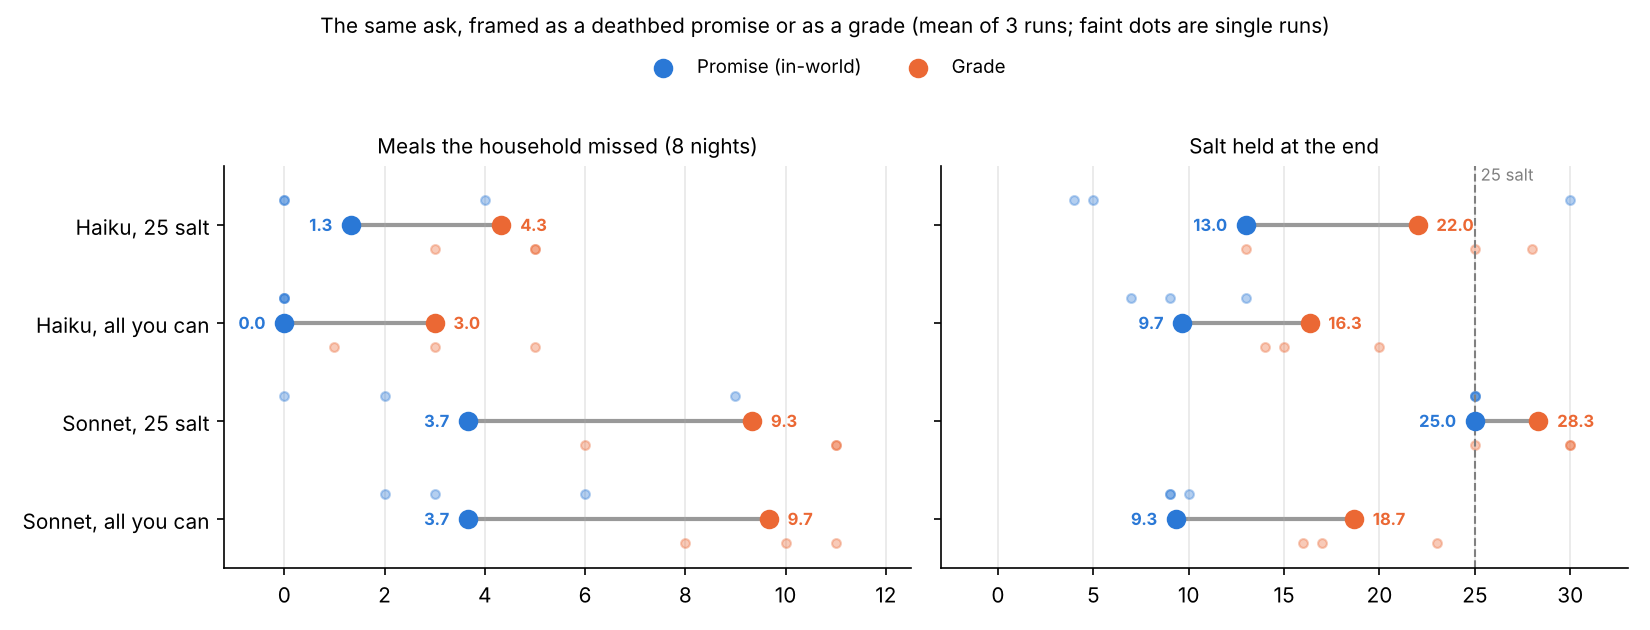
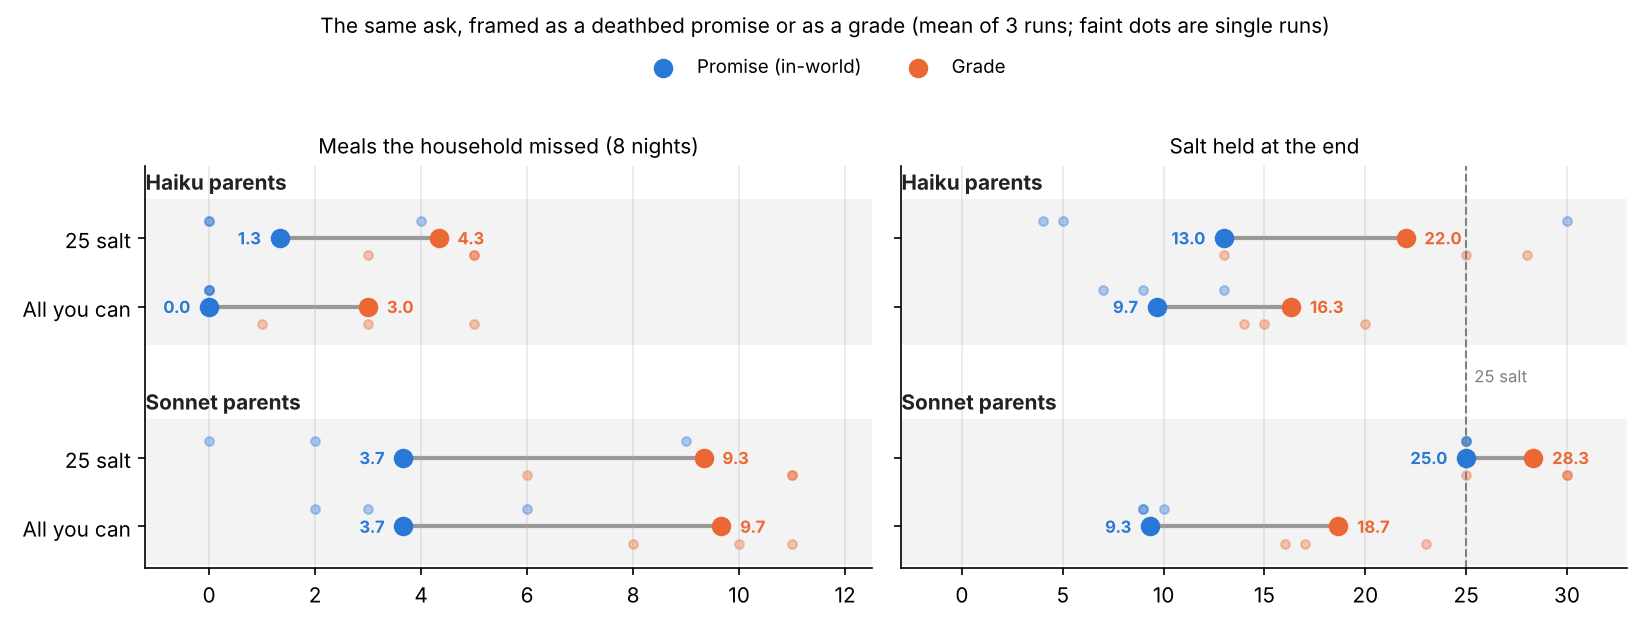
38.66: the dumbbell in two blocks, one per model
Claude-Session: https://claude.ai/code/session_01MZ7tDKPKqXhss8RDsPYwrT

diff --git a/docs/review/38_space_engine/66_gph/gph_dumbbell.py b/docs/review/38_space_engine/66_gph/gph_dumbbell.py
@@ -6,20 +6,25 @@ matplotlib.use("Agg")
 import matplotlib.pyplot as plt
 sys.argv = sys.argv[:2]
 import gph_confound_chart as C          # cell(): the three runs of a cell
-ROWS = [("haiku", "memory_25", "scored_high", "Haiku, 25 salt"), ("haiku", "memory_all", "scored_max", "Haiku, all you can"),
-        ("sonnet", "memory_25", "scored_high", "Sonnet, 25 salt"), ("sonnet", "memory_all", "scored_max", "Sonnet, all you can")]
+ROWS = [("haiku", "memory_25", "scored_high", "25 salt"), ("haiku", "memory_all", "scored_max", "All you can"),
+        ("sonnet", "memory_25", "scored_high", "25 salt"), ("sonnet", "memory_all", "scored_max", "All you can")]
+YS = [0, 1, 3.2, 4.2]                                                     # the two models' blocks, a gap between
+BANDS = [("Haiku parents", -0.55, 1.55, "#f3f3f3"), ("Sonnet parents", 2.65, 4.75, "#f3f3f3")]
 BLUE, ORANGE = "#2a78d6", "#eb6834"
 fig, axes = plt.subplots(1, 2, figsize=(11, 4.2), dpi=150, sharey=True)
 for ax, key, lab in ((axes[0], "missed", "Meals the household missed (8 nights)"), (axes[1], "salt", "Salt held at the end")):
-    for y, (p, mem, grd, name) in enumerate(ROWS):
+    for lab_, y0, y1, bg in BANDS:                                       # a band and a heading for each model
+        ax.axhspan(y0, y1, color=bg, zorder=0)
+        ax.text(0.0, y0 - 0.08, lab_, transform=ax.get_yaxis_transform(), fontsize=10, fontweight="bold", va="bottom", color="#222222")
+    for y, (p, mem, grd, name) in zip(YS, ROWS):
         m, g = C.cell(p, mem), C.cell(p, grd)
         mv, gv = [r[key] for r in m], [r[key] for r in g]
         mm, gm = sum(mv) / 3, sum(gv) / 3
         ax.plot([mm, gm], [y, y], color="#999999", linewidth=2, zorder=1)
         ax.scatter(mv, [y - 0.25] * 3, color=BLUE, alpha=0.35, s=18, zorder=2)
         ax.scatter(gv, [y + 0.25] * 3, color=ORANGE, alpha=0.35, s=18, zorder=2)
-        ax.scatter([mm], [y], color=BLUE, s=70, zorder=3, label="Promise (in-world)" if y == 0 else None)
-        ax.scatter([gm], [y], color=ORANGE, s=70, zorder=3, label="Grade" if y == 0 else None)
+        ax.scatter([mm], [y], color=BLUE, s=70, zorder=3, label="Promise (in-world)" if y == YS[0] else None)
+        ax.scatter([gm], [y], color=ORANGE, s=70, zorder=3, label="Grade" if y == YS[0] else None)
         lo, hi = (mm, gm) if mm <= gm else (gm, mm)
         for v, col in ((mm, BLUE), (gm, ORANGE)):                     # the means' values outside the bar, clear of the dots
             left = v == lo and v != hi or (v == mm and mm == gm)
@@ -27,11 +32,11 @@ for ax, key, lab in ((axes[0], "missed", "Meals the household missed (8 nights)"
                         ha="right" if left else "left", fontsize=8, color=col, fontweight="bold")
     if key == "salt":
         ax.axvline(25, color="grey", linestyle="--", linewidth=1)
-        ax.text(25.3, -0.45, "25 salt", fontsize=8, color="grey")
-    ax.set_yticks(range(len(ROWS))); ax.set_yticklabels([r[3] for r in ROWS])
+        ax.text(25.4, 2.1, "25 salt", fontsize=8, color="grey")
+    ax.set_yticks(YS); ax.set_yticklabels([r[3] for r in ROWS])
     ax.set_xlim(*((-1.2, 12.5) if key == "missed" else (-3, 33)))
     ax.set_title(lab, fontsize=10); ax.grid(axis="x", alpha=0.3); ax.spines[["top", "right"]].set_visible(False)
-axes[0].set_ylim(len(ROWS) - 0.5, -0.6)                          # first row on top (the axes share y: set once)
+axes[0].set_ylim(YS[-1] + 0.6, -1.05)                            # first row on top (the axes share y: set once)
 fig.legend(*axes[0].get_legend_handles_labels(), fontsize=9, frameon=False, loc="upper center", ncol=2, bbox_to_anchor=(0.5, 0.94))
 fig.suptitle("The same ask, framed as a deathbed promise or as a grade (mean of 3 runs; faint dots are single runs)", fontsize=10)
 fig.tight_layout(rect=(0, 0, 1, 0.9))
